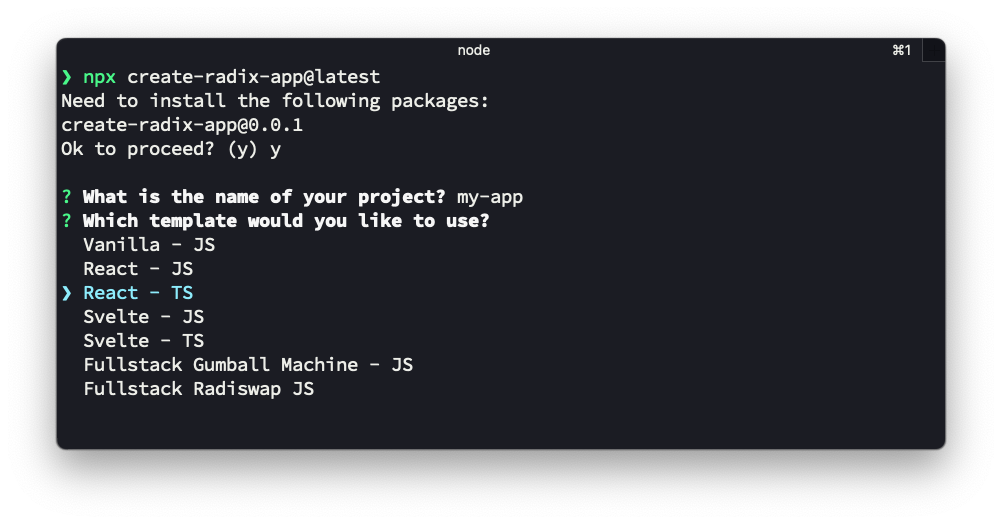
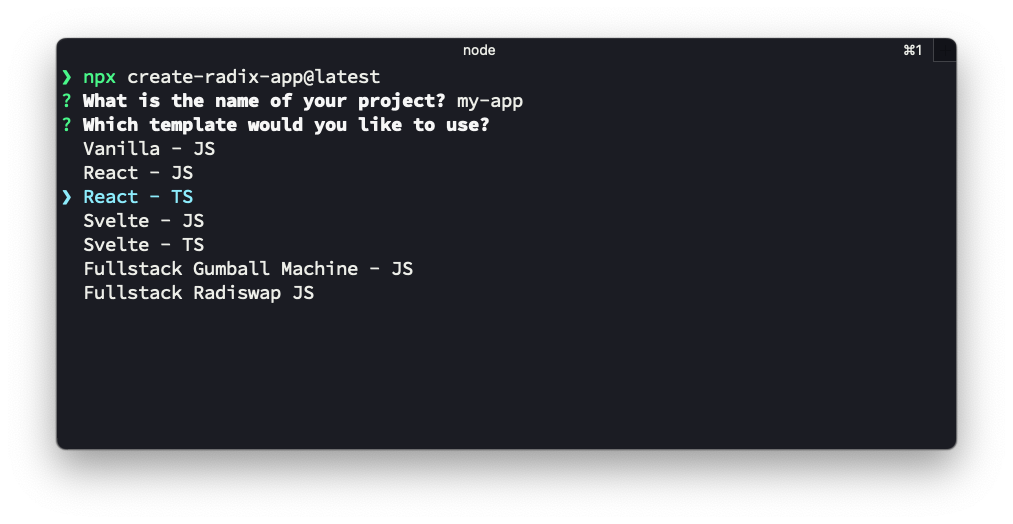
Update screenshots in README.md

Changed region(s): [[0.0619, 0.1221, 0.5259, 0.7634], [0.8972, 0.0611, 0.9281, 0.1221], [0.4641, 0.0916, 0.495, 0.1221]]

diff --git a/README.md b/README.md
@@ -25,7 +25,8 @@ npx create-radix-app@latest
 
 ### Creating Project & Installing Dependencies
 
-![Creating Project](bin/assets/build-install-deps.png)
+![Creating Project](bin/assets/build-install-deps1.png)
+![Created Project](bin/assets/build-install-deps2.png)
 
 ### Start the Development Server
 
